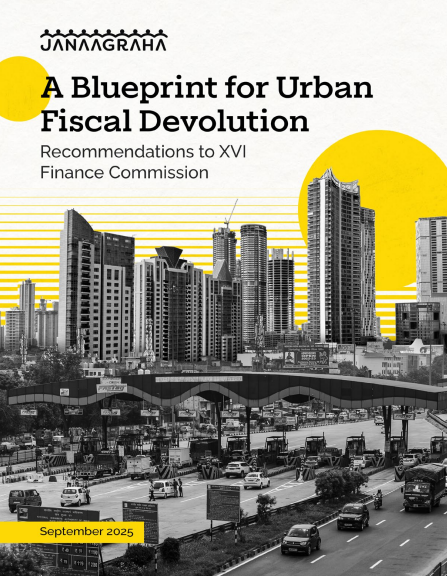
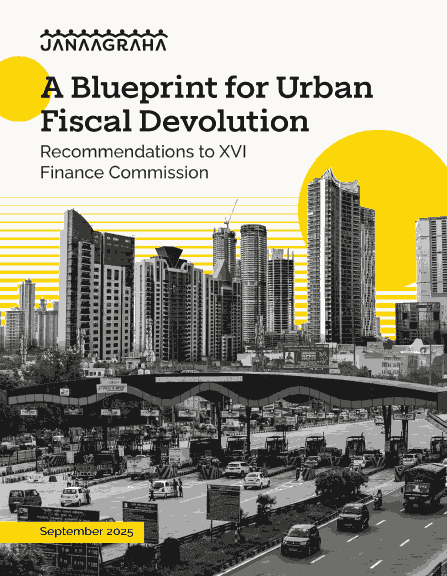
changes suggested by jeeva

diff --git a/src/app/pages/home/spotlight/spotlight.ts b/src/app/pages/home/spotlight/spotlight.ts
@@ -116,15 +116,15 @@ export class Spotlight {
         "badge": ""
       },
       {
-        "imageUrl": "/assets/images/homepage_v2/spotlight/xvi-fc.png",
+        "imageUrl": "https://jana-cityfinance-live.s3.ap-south-1.amazonaws.com/resources/xvi-fc_2b83c6f0-b7f7-472e-9741-d856021adb81.png",
         "name": "Report of the XVI-FC Volume 1",
-        "downloadUrl": "https://www.indiabudget.gov.in/doc/16fcvol1.pdf#page=215",
+        "downloadUrl": "https://jana-cityfinance-live.s3.ap-south-1.amazonaws.com/resources/xvi-fc_a7627d0e-5f18-4322-8c31-4a7ef9ecb3ad.pdf",
         "badge": ""
       },
       {
-        "imageUrl": "/assets/images/homepage_v2/spotlight/urban_fiscal.png",
+        "imageUrl": "https://jana-cityfinance-live.s3.ap-south-1.amazonaws.com/resources//blue-print_671e77ae-5c30-4a75-89c1-f6a0a6535062.png",
         "name": "A Blueprint for Urban Fiscal Devolution",
-        "downloadUrl": "https://www.janaagraha.org/wp-content/uploads/2026/02/A-Blueprint-to-Urban-Fiscal-Devolution-Embargoed.pdf%22",
+        "downloadUrl": "https://jana-cityfinance-live.s3.ap-south-1.amazonaws.com/resources/blue-print_63094994-fcba-430d-8265-d0dcafa501c9.pdf",
         "badge": ""
       }
     ];

diff --git a/src/app/pages/dashboard/national/resources/resources.html b/src/app/pages/dashboard/national/resources/resources.html
@@ -5,7 +5,7 @@
             <!-- <img [src]="item.imageUrl" alt="carouselImage" /> -->
             <img [src]="item?.imageUrl | toStorageUrl" class="card-img-top" [alt]="item.label" width="250" height="200">
         </div>
-        <a class="card-text card-label" [href]="item?.downloadUrl | toStorageUrl" target="_blank">
+        <a class="card-text card-label ellipsis" [href]="item?.downloadUrl | toStorageUrl" target="_blank">
             {{ item.name }}
         </a>
     </div>

diff --git a/src/app/pages/dashboard/national/resources/resources.scss b/src/app/pages/dashboard/national/resources/resources.scss
@@ -25,7 +25,12 @@
     }
 }
 
-
+.ellipsis {
+  display: block;          /* required */
+  white-space: nowrap;
+  overflow: hidden;
+  text-overflow: ellipsis;
+}
 .card-body {
     max-width: 250px;
     text-overflow: ellipsis;
